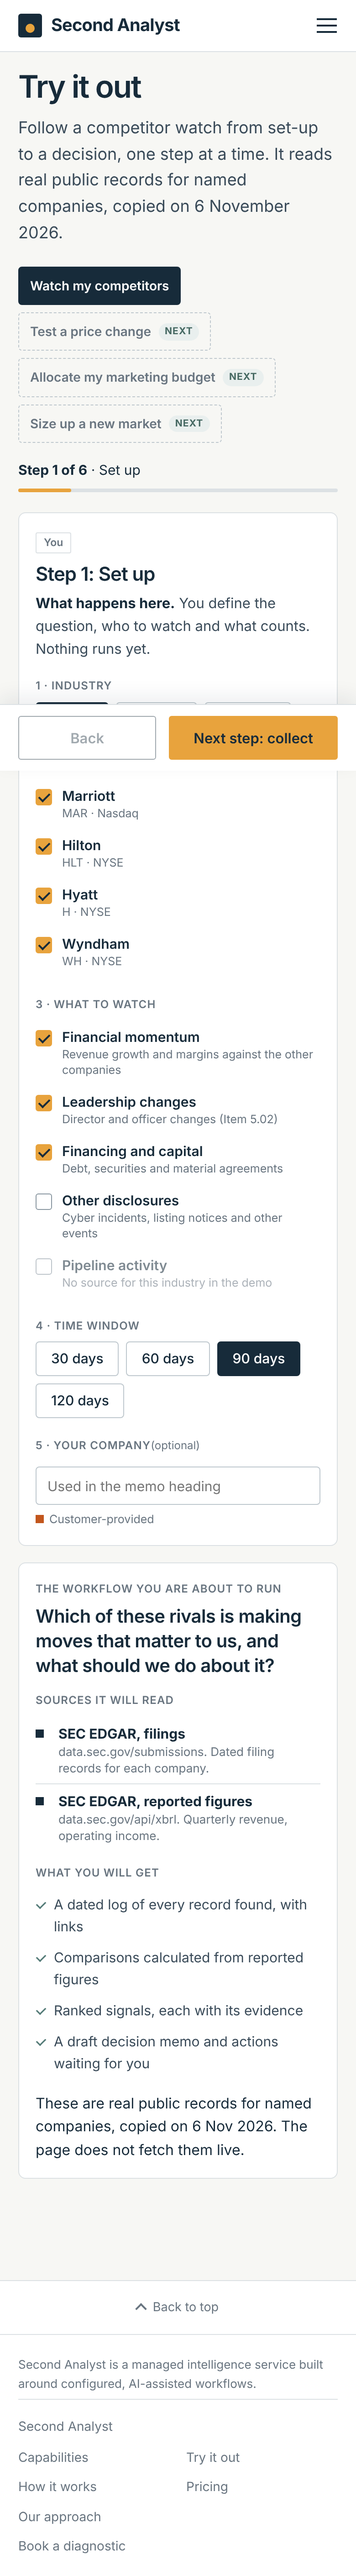
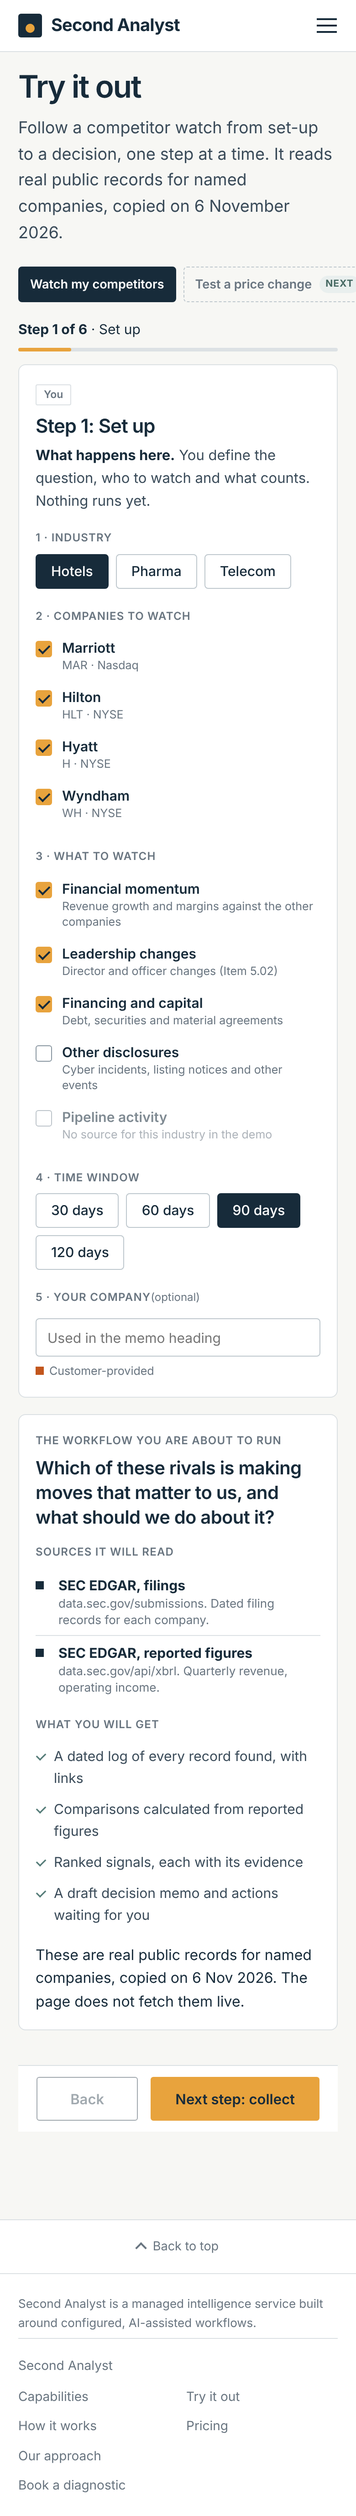
Try it out prototype: fix mobile header stack, scroll to the step on Next, compact brief line; add phone-view mocks
Claude-Session: https://claude.ai/code/session_015iMb6mZkjLTjAxYUi86cow

diff --git a/prototypes/try-it-out-r19/assets/watch.js b/prototypes/try-it-out-r19/assets/watch.js
@@ -140,8 +140,9 @@
   /* ---------- views ---------- */
   function chipsBar() {
     var f = FOCUS.filter(function (x) { return S.focus[x.k] && (!x.only || x.only === S.ind); }).map(function (x) { return x.n.toLowerCase(); });
-    return '<div class="tw-bar"><span class="lab2">Your brief</span><span><b>' + esc(IND().label) + '</b></span><span>' + cos().map(function (c) { return esc(c.name); }).join(', ') + '</span><span>' + (f.join(', ') || 'nothing selected') + '</span><span>' + S.win + ' days</span>' + (S.who.trim() ? '<span>for ' + esc(S.who.trim()) + '</span>' : '') + '</div>';
+    return '<div class="tw-bar"><span class="tw-bs"><b>Your brief</b> \u00b7 ' + esc(briefShort()) + '</span><span class="lab2">Your brief</span><span><b>' + esc(IND().label) + '</b></span><span>' + cos().map(function (c) { return esc(c.name); }).join(', ') + '</span><span>' + (f.join(', ') || 'nothing selected') + '</span><span>' + S.win + ' days</span>' + (S.who.trim() ? '<span>for ' + esc(S.who.trim()) + '</span>' : '') + '</div>';
   }
+  function briefShort() { var n = FOCUS.filter(function (x) { return S.focus[x.k] && (!x.only || x.only === S.ind); }).length; return IND().label + ' \u00b7 ' + cos().length + ' companies \u00b7 ' + n + ' focus area' + (n === 1 ? '' : 's') + ' \u00b7 ' + S.win + ' days'; }
   function vSetup() {
     var ids = S.cos || allCos().map(function (c) { return c.id; });
     var left = '<div class="tw-f"><div class="lab2">1 &middot; Industry</div><div class="chp" role="group" aria-label="Industry">' + Object.keys(CW.industries).map(function (k) { return '<button type="button" data-act="ind" data-v="' + k + '" aria-pressed="' + (S.ind === k) + '">' + CW.industries[k].label + '</button>'; }).join('') + '</div></div>' +
@@ -242,9 +243,10 @@
     var qrow = '<div class="tw-q4" role="group" aria-label="Business question"><button type="button" aria-pressed="true">Watch my competitors</button><button type="button" class="soon" disabled>Test a price change<small>Next</small></button><button type="button" class="soon" disabled>Allocate my marketing budget<small>Next</small></button><button type="button" class="soon" disabled>Size up a new market<small>Next</small></button></div>';
     var pane = '<div class="tw-pane"><div class="tw-l"><div class="tw-who"><span class="tag">' + st.who + '</span><h2>Step ' + S.step + ': ' + st.n + '</h2><p class="does"><b>What happens here.</b> ' + st.does + '</p></div>' + v.left + '</div><div class="tw-r" aria-live="polite">' + v.right + '</div></div>';
     var nav = '<div class="tw-nav"><button type="button" class="btn o" data-act="back"' + (S.step === 1 ? ' disabled' : '') + '>Back</button><span class="tw-why">' + (v.ok ? '' : esc(v.why || '')) + '</span>' + (S.step < 6 ? '<button type="button" class="btn am" data-act="next"' + (v.ok ? '' : ' disabled') + '>Next step: ' + STEPS[S.step].n.toLowerCase() + '</button>' : '<button type="button" class="btn o" data-act="restart">Start again</button>') + '</div>';
-    var y = window.scrollY; root.innerHTML = qrow + stp + mob + (S.step > 1 ? chipsBar() : '') + pane + nav; if (keepScroll) window.scrollTo(0, y);
+    document.documentElement.setAttribute('data-tw-step', S.step); var y = window.scrollY; root.innerHTML = qrow + stp + mob + (S.step > 1 ? chipsBar() : '') + pane + nav; if (keepScroll) window.scrollTo(0, y);
     var w = $('#tw-who'); if (w && S._focusWho) { w.focus(); w.setSelectionRange(w.value.length, w.value.length); }
   }
+  function toStep() { var t = root.querySelector(window.innerWidth <= 820 ? '.tw-mstep' : '.tw-stp'); if (t) window.scrollTo({ top: t.getBoundingClientRect().top + window.scrollY - (window.innerWidth <= 820 ? 70 : 90), behavior: 'smooth' }); }
   function resetRun() { S.done.collect = false; S.running = false; S.showAll = false; S.keep = null; S.outcome = null; S.maxStep = Math.min(S.maxStep, 2); }
   function runCollect() {
     var plan = srcPlan(); S.running = true; plan.forEach(function (r) { r.state = 'wait'; }); S._plan = plan; render(true);
@@ -268,9 +270,9 @@
     else if (a === 'imp') { S.imp[b.getAttribute('data-k')] = +v; render(true); }
     else if (a === 'collect') { runCollect(); }
     else if (a === 'all') { S.showAll = !S.showAll; render(true); }
-    else if (a === 'go') { S.step = +v; render(); }
-    else if (a === 'back') { S.step = Math.max(1, S.step - 1); render(); window.scrollTo(0, root.offsetTop - 80); }
-    else if (a === 'next') { S.step = Math.min(6, S.step + 1); S.maxStep = Math.max(S.maxStep, S.step); render(); window.scrollTo(0, root.offsetTop - 80); }
+    else if (a === 'go') { S.step = +v; render(); toStep(); }
+    else if (a === 'back') { S.step = Math.max(1, S.step - 1); render(); toStep(); }
+    else if (a === 'next') { S.step = Math.min(6, S.step + 1); S.maxStep = Math.max(S.maxStep, S.step); render(); toStep(); }
     else if (a === 'restart') { S.step = 1; S.maxStep = 1; resetRun(); render(); }
     else if (a === 'out') { S.outcome = v; render(true); }
     else if (a === 'dl') { var A = analyse(), M = memo(A), u = URL.createObjectURL(new Blob([memoMd(A, M)], { type: 'text/markdown' })), l = document.createElement('a'); l.href = u; l.download = 'competitor-watch-' + S.ind + '.md'; document.body.appendChild(l); l.click(); l.remove(); setTimeout(function () { URL.revokeObjectURL(u); }, 800); }

diff --git a/prototypes/try-it-out-r19/index.html b/prototypes/try-it-out-r19/index.html
@@ -20,7 +20,7 @@
 </div></header>
 <div class="mpanel" id="mpanel" hidden><a class="l" href="capabilities.html">Capabilities</a><a class="l" href="try-it-yourself.html" aria-current="page">Try it out</a><a class="l" href="how-it-works.html">How it works</a><a class="l" href="pricing.html">Pricing</a><a class="l" href="our-approach.html">Our approach</a><a class="btn am" href="contact.html">Book a diagnostic</a></div><div class="scrim" id="scrim" hidden></div>
 <main id="main">
-<div class="bg-b"><div class="w tw"><h1>Try it out</h1><p class="lede" style="margin-top:12px">Follow a competitor watch from set-up to a decision, one step at a time. It reads real public records for named companies, copied on 6 November 2026.</p>
+<div class="bg-b"><div class="w tw"><h1>Try it out</h1><p class="lede tw-lede" style="margin-top:12px">Follow a competitor watch from set-up to a decision, one step at a time. It reads real public records for named companies, copied on 6 November 2026.</p>
 <div style="margin-top:22px" id="tw"></div></div></div>
 </main>
 <a class="totop" href="#top">Back to top</a><footer class="foot"><div class="w"><p class="desc"><span data-brand="name">Second Analyst</span> is a managed intelligence service built around configured, AI-assisted workflows.</p><div class="row"><span><span data-brand="name">Second Analyst</span></span><nav aria-label="Footer"><a href="capabilities.html">Capabilities</a><a href="try-it-yourself.html">Try it out</a><a href="how-it-works.html">How it works</a><a href="pricing.html">Pricing</a><a href="our-approach.html">Our approach</a><a href="contact.html">Book a diagnostic</a></nav></div></div></footer>
